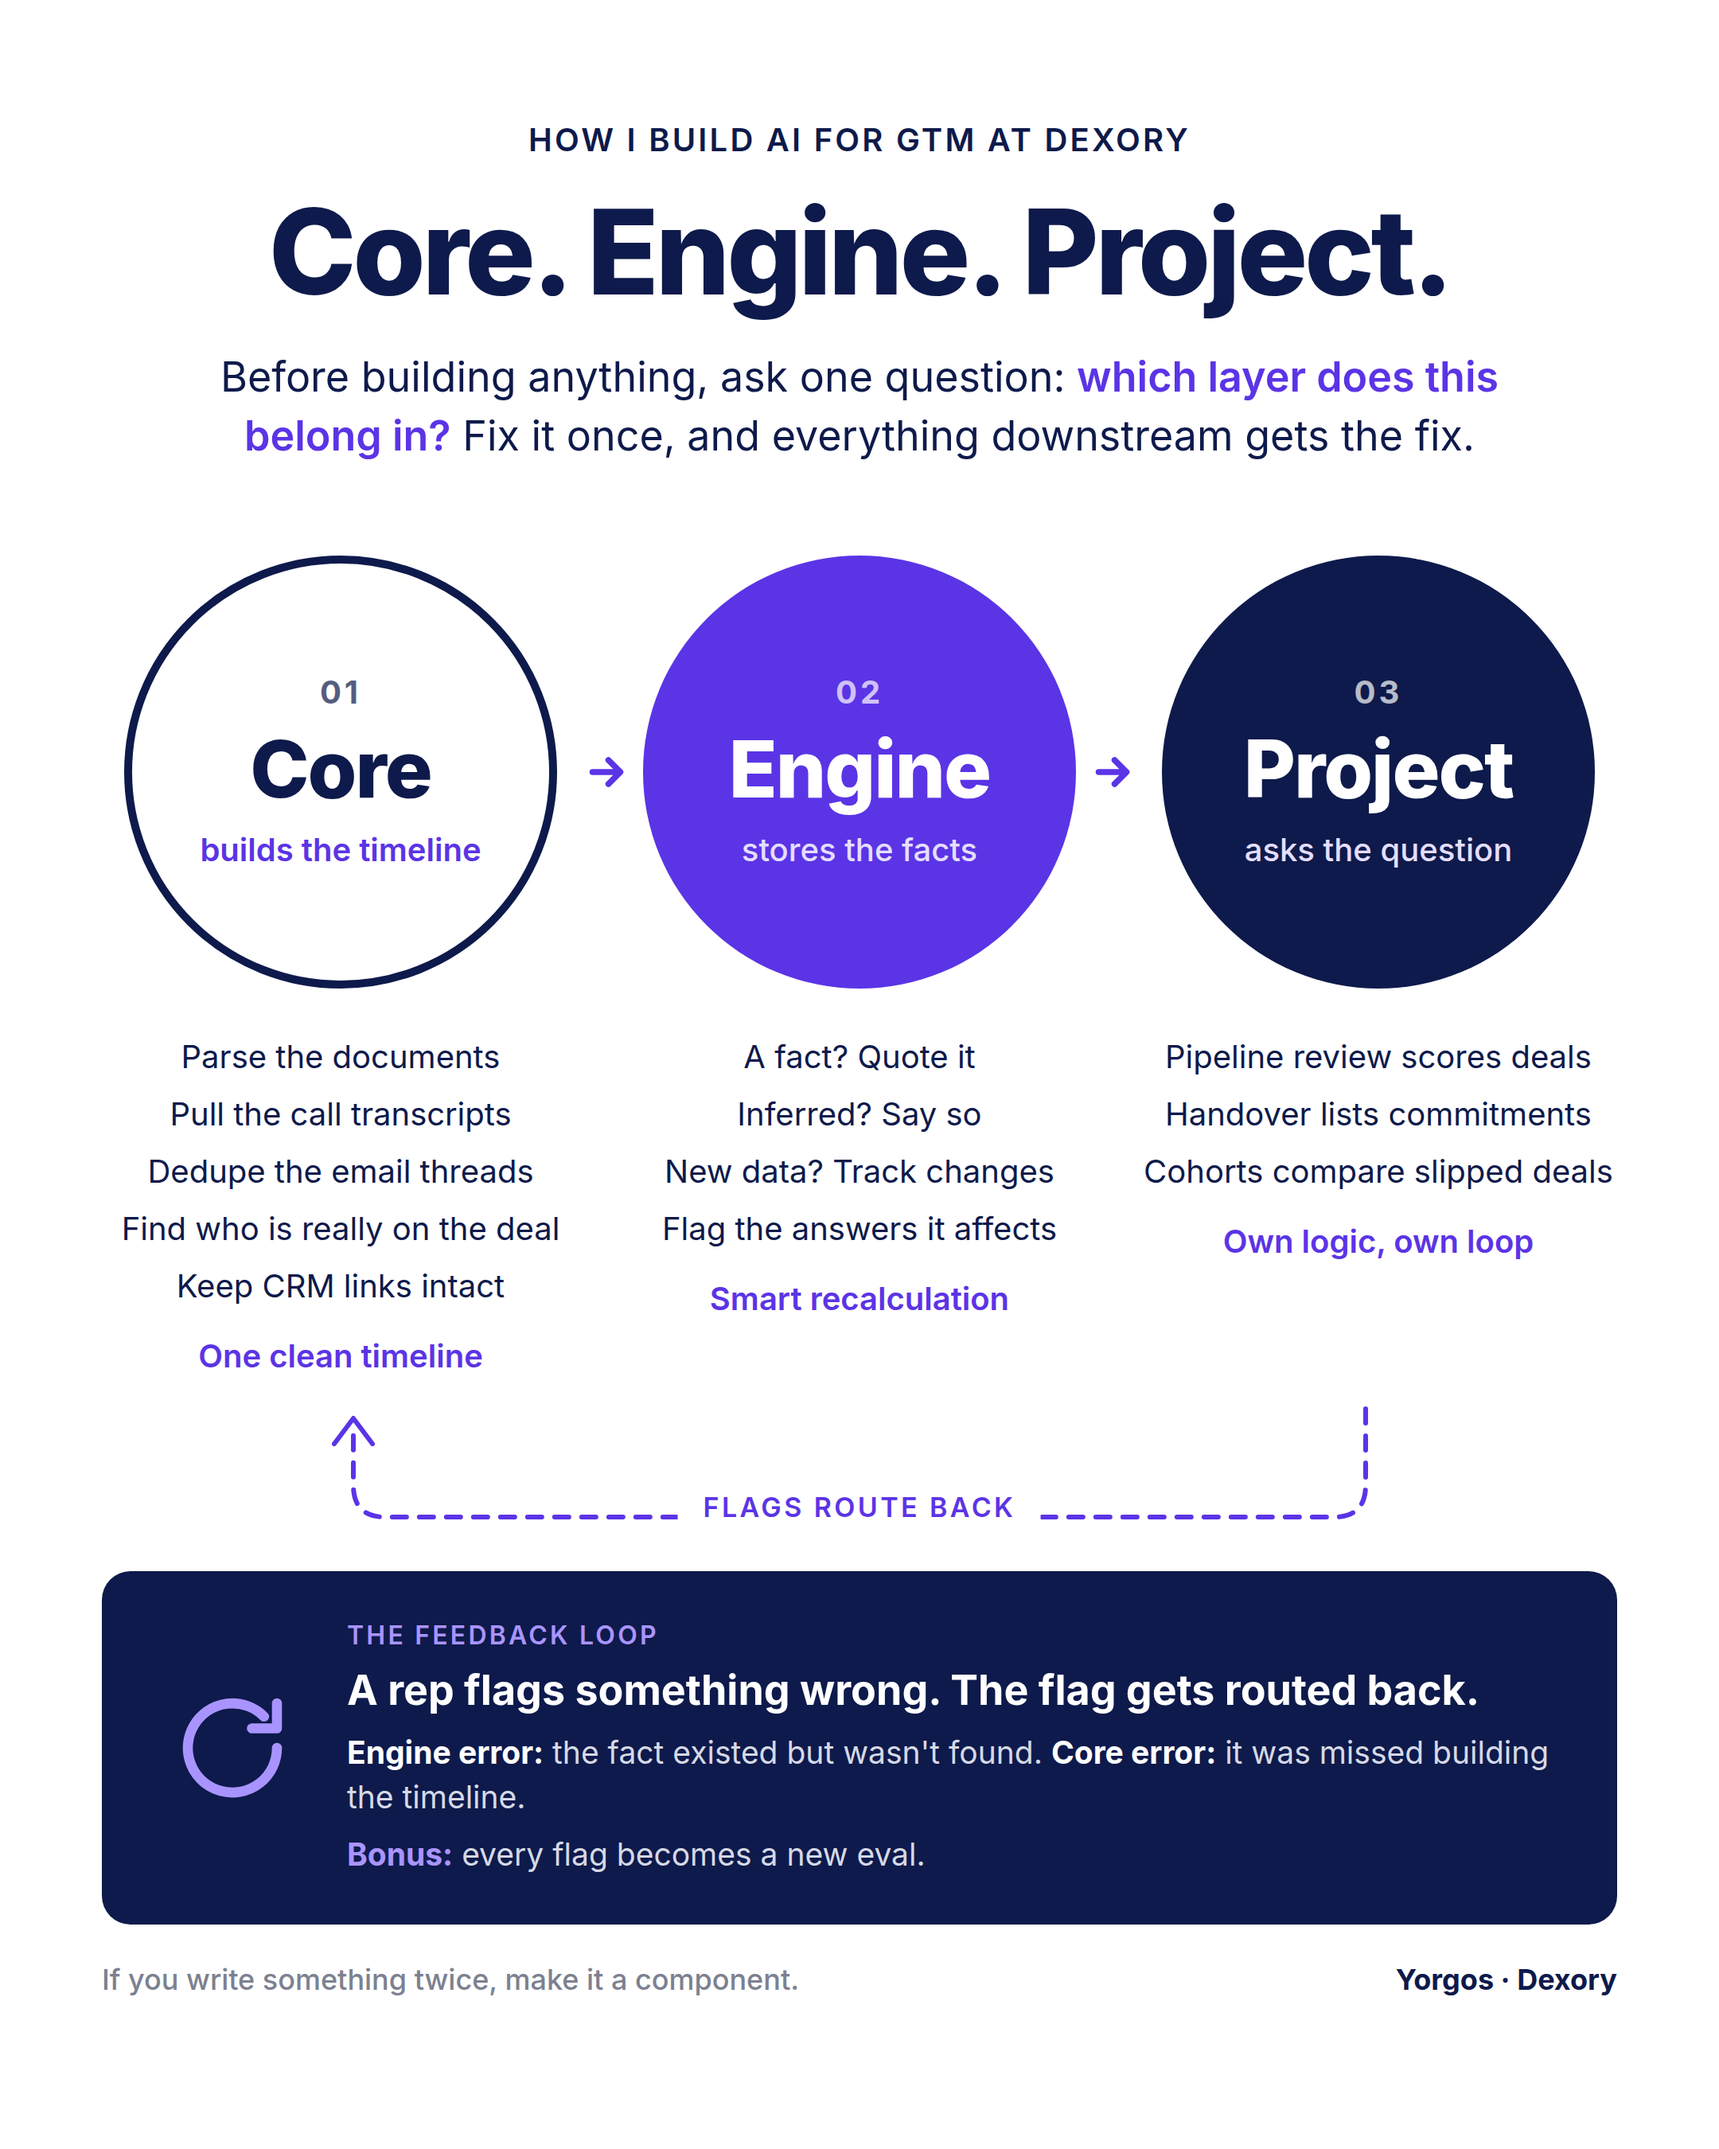
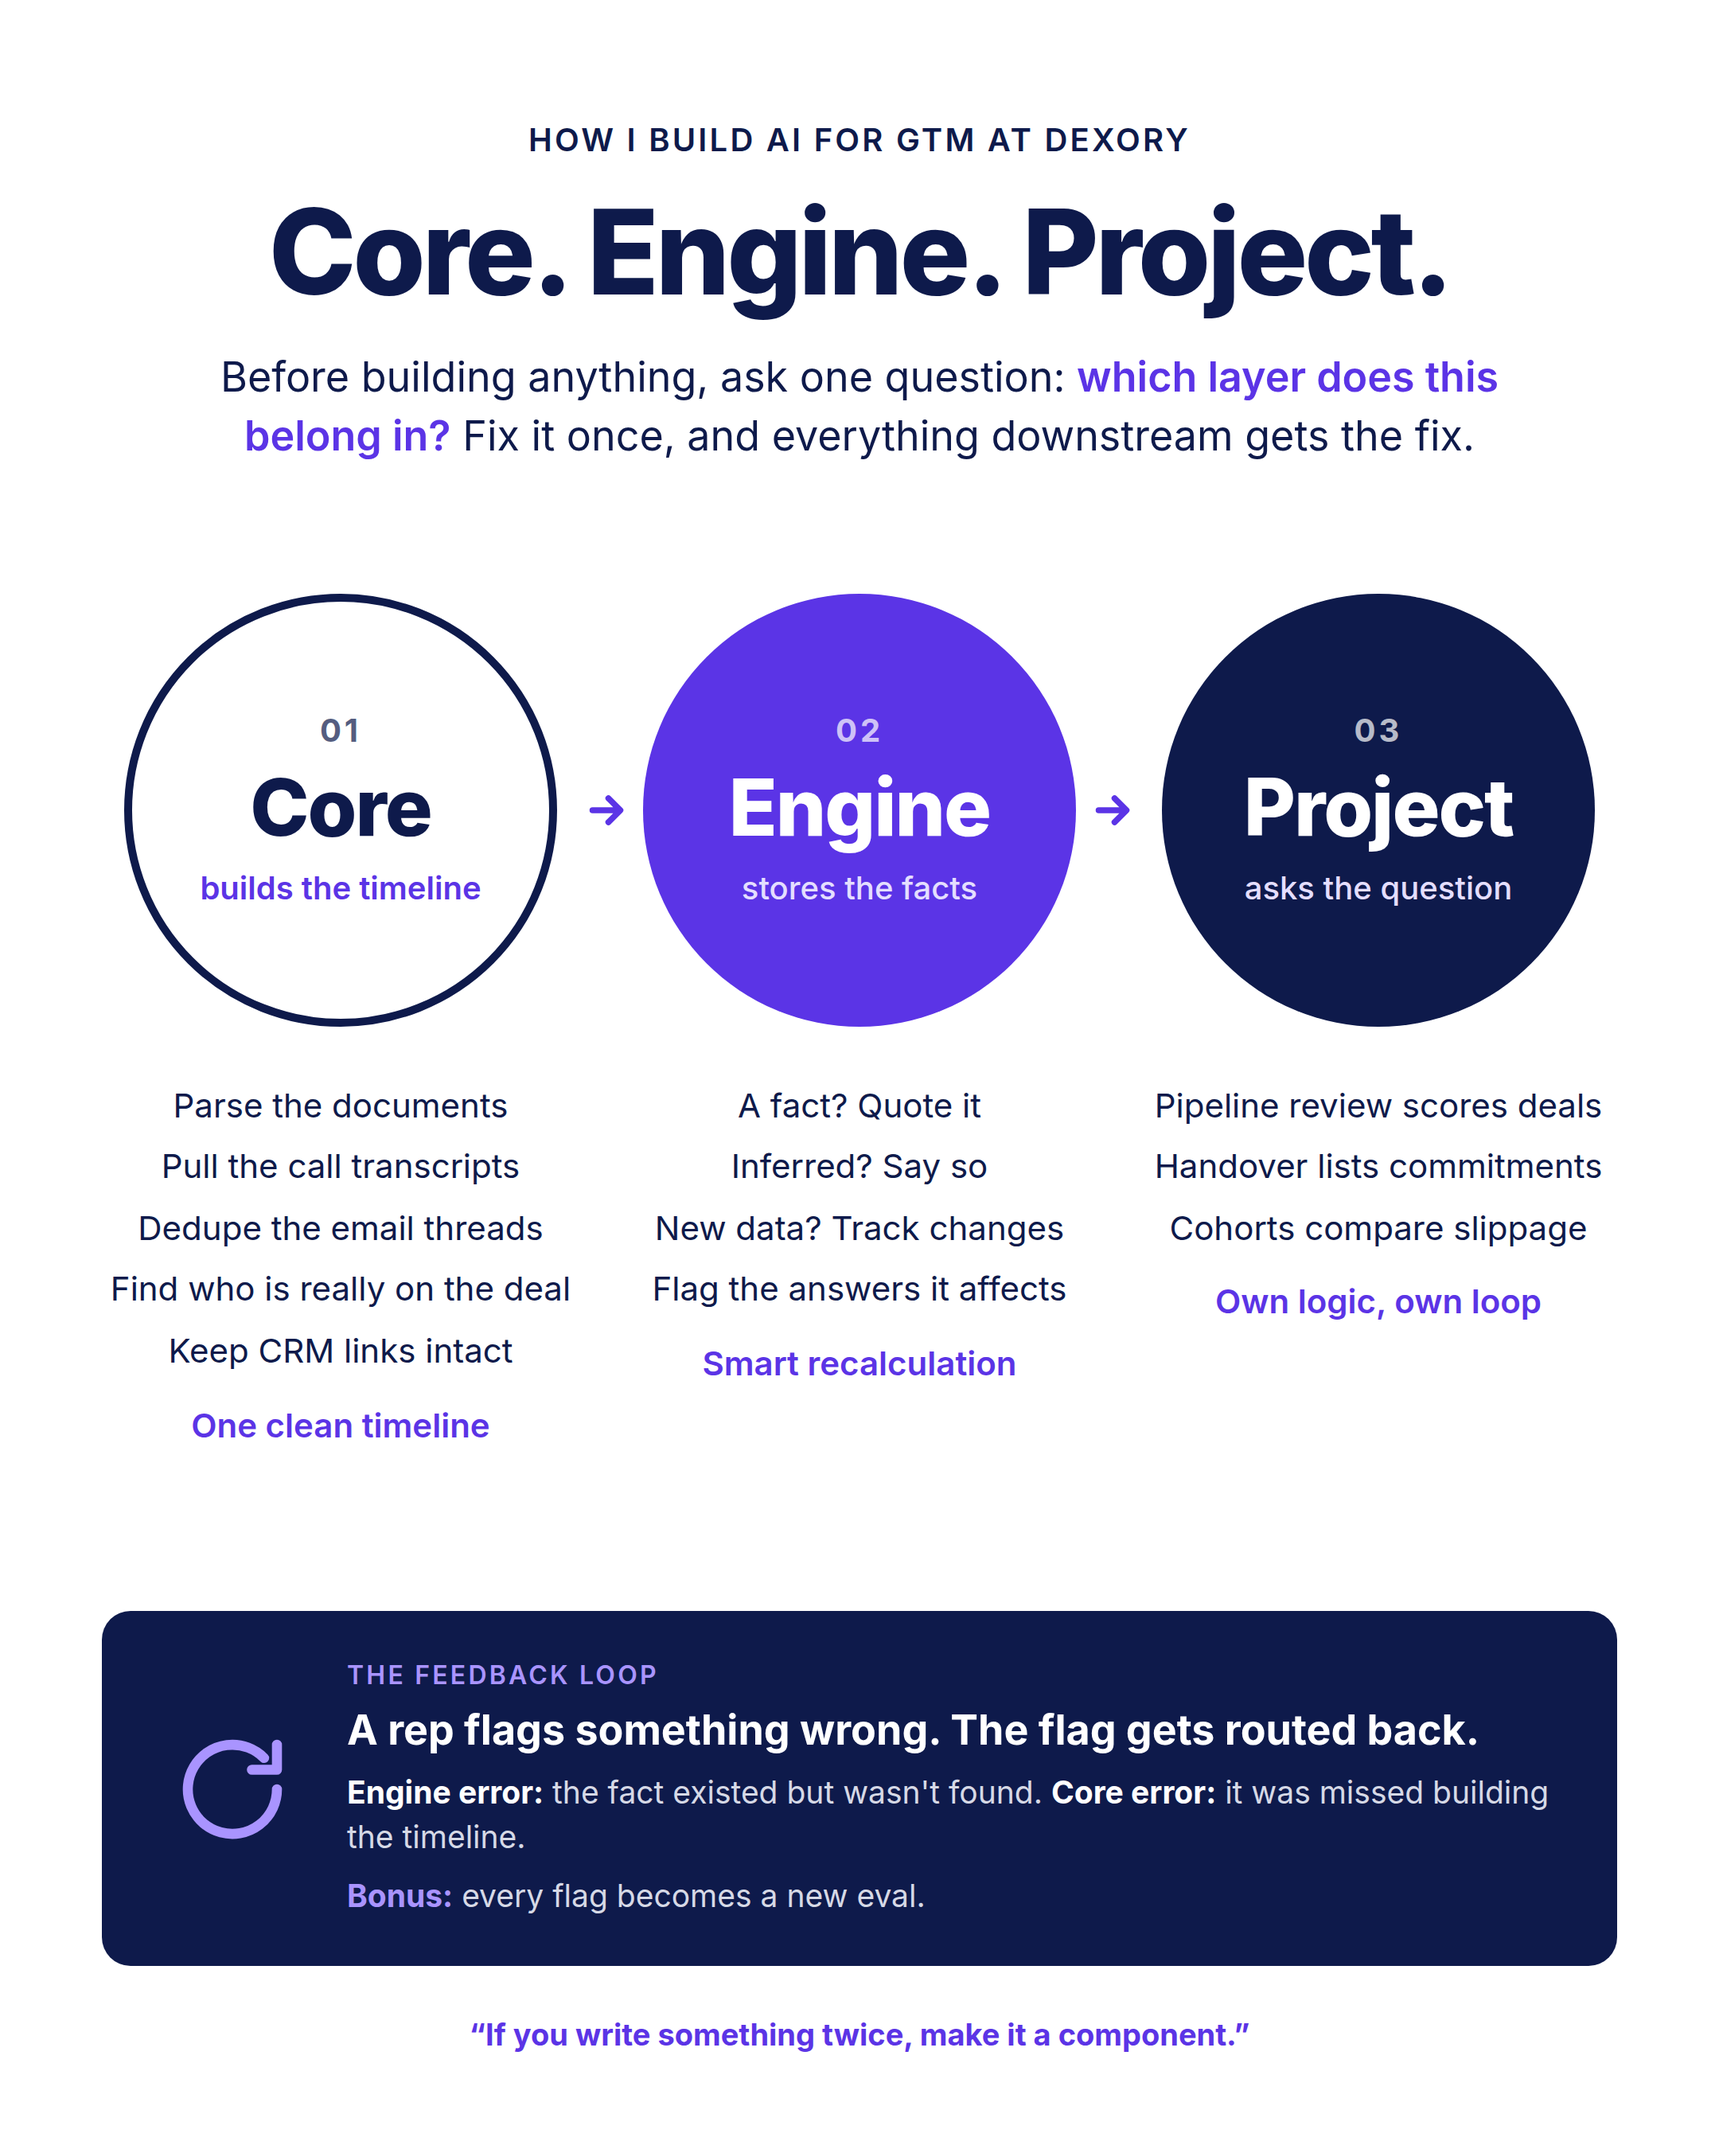
Simplify LinkedIn image footer and remove return arrow
Claude-Session: https://claude.ai/code/session_01ET6bBCFSCFtvMCGDwWDUGu

diff --git a/linkedin/core-engine-project.html b/linkedin/core-engine-project.html
@@ -33,7 +33,7 @@
   .lede b { color: var(--purple); font-weight: 600; }
 
   .circles {
-    margin-top: 56px; display: grid;
+    margin-top: 80px; display: grid;
     grid-template-columns: 1fr 1fr 1fr; column-gap: 26px; position: relative;
   }
   .col { display: flex; flex-direction: column; align-items: center; text-align: center; }
@@ -61,20 +61,13 @@
   .a1 { left: calc(33.33% - 17px + 0px); }
   .a2 { left: calc(66.66% - 17px + 0px); }
 
-  .body { font-size: 20px; line-height: 1.5; margin-top: 28px; padding: 0; }
+  .body { font-size: 21px; line-height: 1.55; margin-top: 34px; padding: 0; }
   .body li { list-style: none; }
   .body li + li { margin-top: 6px; }
   .body .out { margin-top: 14px; color: var(--purple); font-weight: 600; }
 
-  .return { position: relative; height: 96px; margin-top: 14px; }
-  .return svg { position: absolute; inset: 0; width: 100%; height: 100%; overflow: visible; }
-  .return .rl {
-    position: absolute; left: 50%; top: 56px; transform: translateX(-50%);
-    background: #fff; padding: 0 16px; font-size: 17px; font-weight: 600;
-    letter-spacing: 0.1em; text-transform: uppercase; color: var(--purple);
-  }
   .loop {
-    margin-top: 10px; background: var(--navy); color: #fff;
+    margin-top: auto; background: var(--navy); color: #fff;
     border-radius: 18px; padding: 30px 40px;
     display: grid; grid-template-columns: auto 1fr; column-gap: 30px; align-items: center;
   }
@@ -86,10 +79,9 @@
   .loop .row span { color: var(--lilac); font-weight: 700; }
 
   .foot {
-    margin-top: 24px; display: flex; justify-content: space-between;
-    font-size: 18px; color: var(--grey); font-weight: 500;
+    margin-top: 32px; text-align: center;
+    font-size: 19px; color: var(--purple); font-weight: 700;
   }
-  .foot b { color: var(--navy); font-weight: 700; }
 </style>
 </head>
 <body>
@@ -127,18 +119,10 @@
       <ul class="body">
         <li>Pipeline review scores deals</li>
         <li>Handover lists commitments</li>
-        <li>Cohorts compare slipped deals</li>
+        <li>Cohorts compare slippage</li>
         <li class="out">Own logic, own loop</li>
       </ul>
     </div>
-  </div>
-
-  <div class="return">
-    <svg viewBox="0 0 952 96" preserveAspectRatio="none" fill="none">
-      <path d="M794 4 V52 Q794 72 774 72 H178 Q158 72 158 52 V18" stroke="#5B34E6" stroke-width="3" stroke-dasharray="9 8" stroke-linecap="round"/>
-      <path d="M146 26 L158 10 L170 26" stroke="#5B34E6" stroke-width="3" stroke-linecap="round" stroke-linejoin="round"/>
-    </svg>
-    <div class="rl">Flags route back</div>
   </div>
 
   <div class="loop">
@@ -151,9 +135,6 @@
     </div>
   </div>
 
-  <div class="foot">
-    <span>If you write something twice, make it a component.</span>
-    <b>Yorgos · Dexory</b>
-  </div>
+  <div class="foot">&ldquo;If you write something twice, make it a component.&rdquo;</div>
 </body>
 </html>
